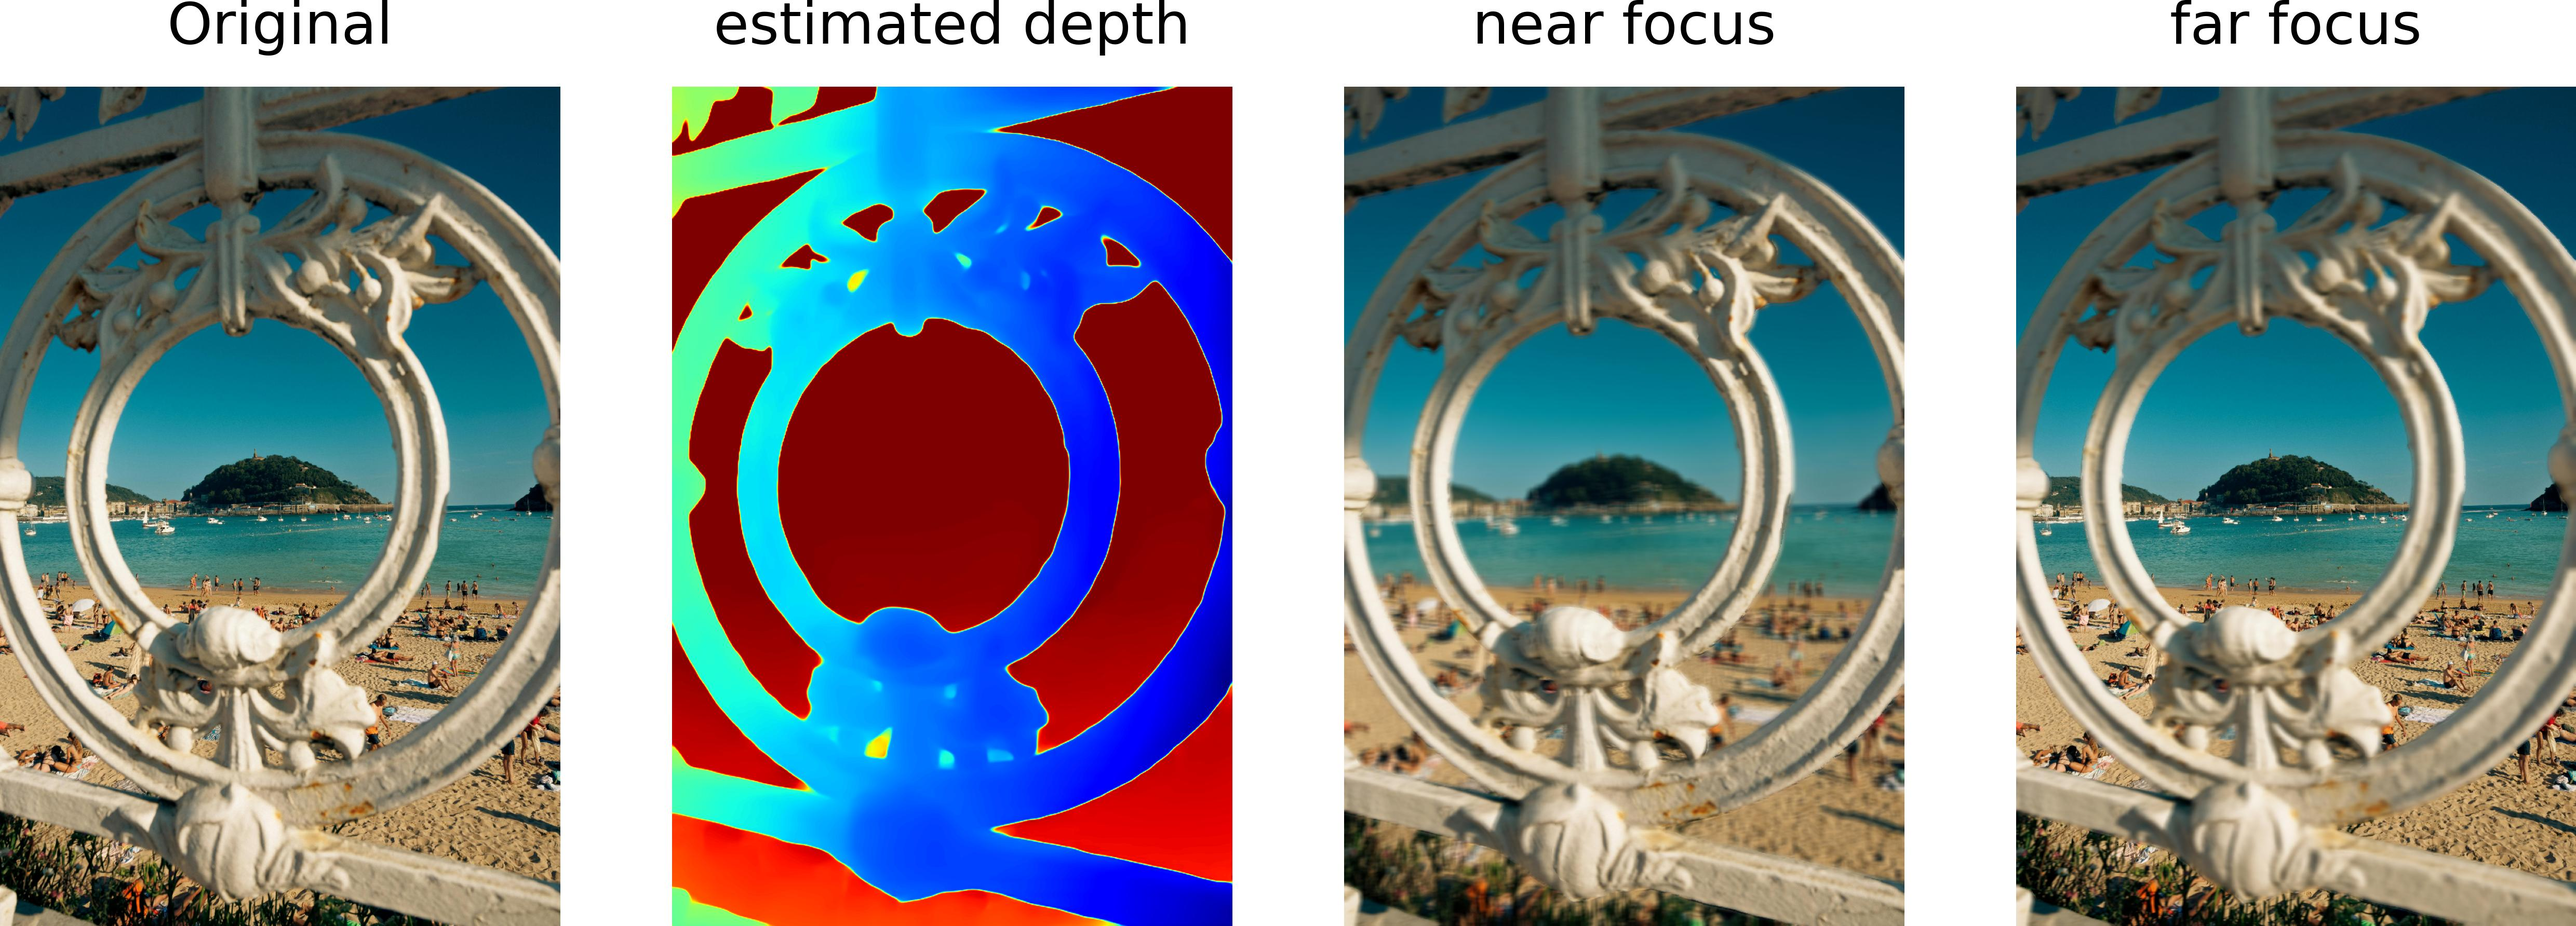
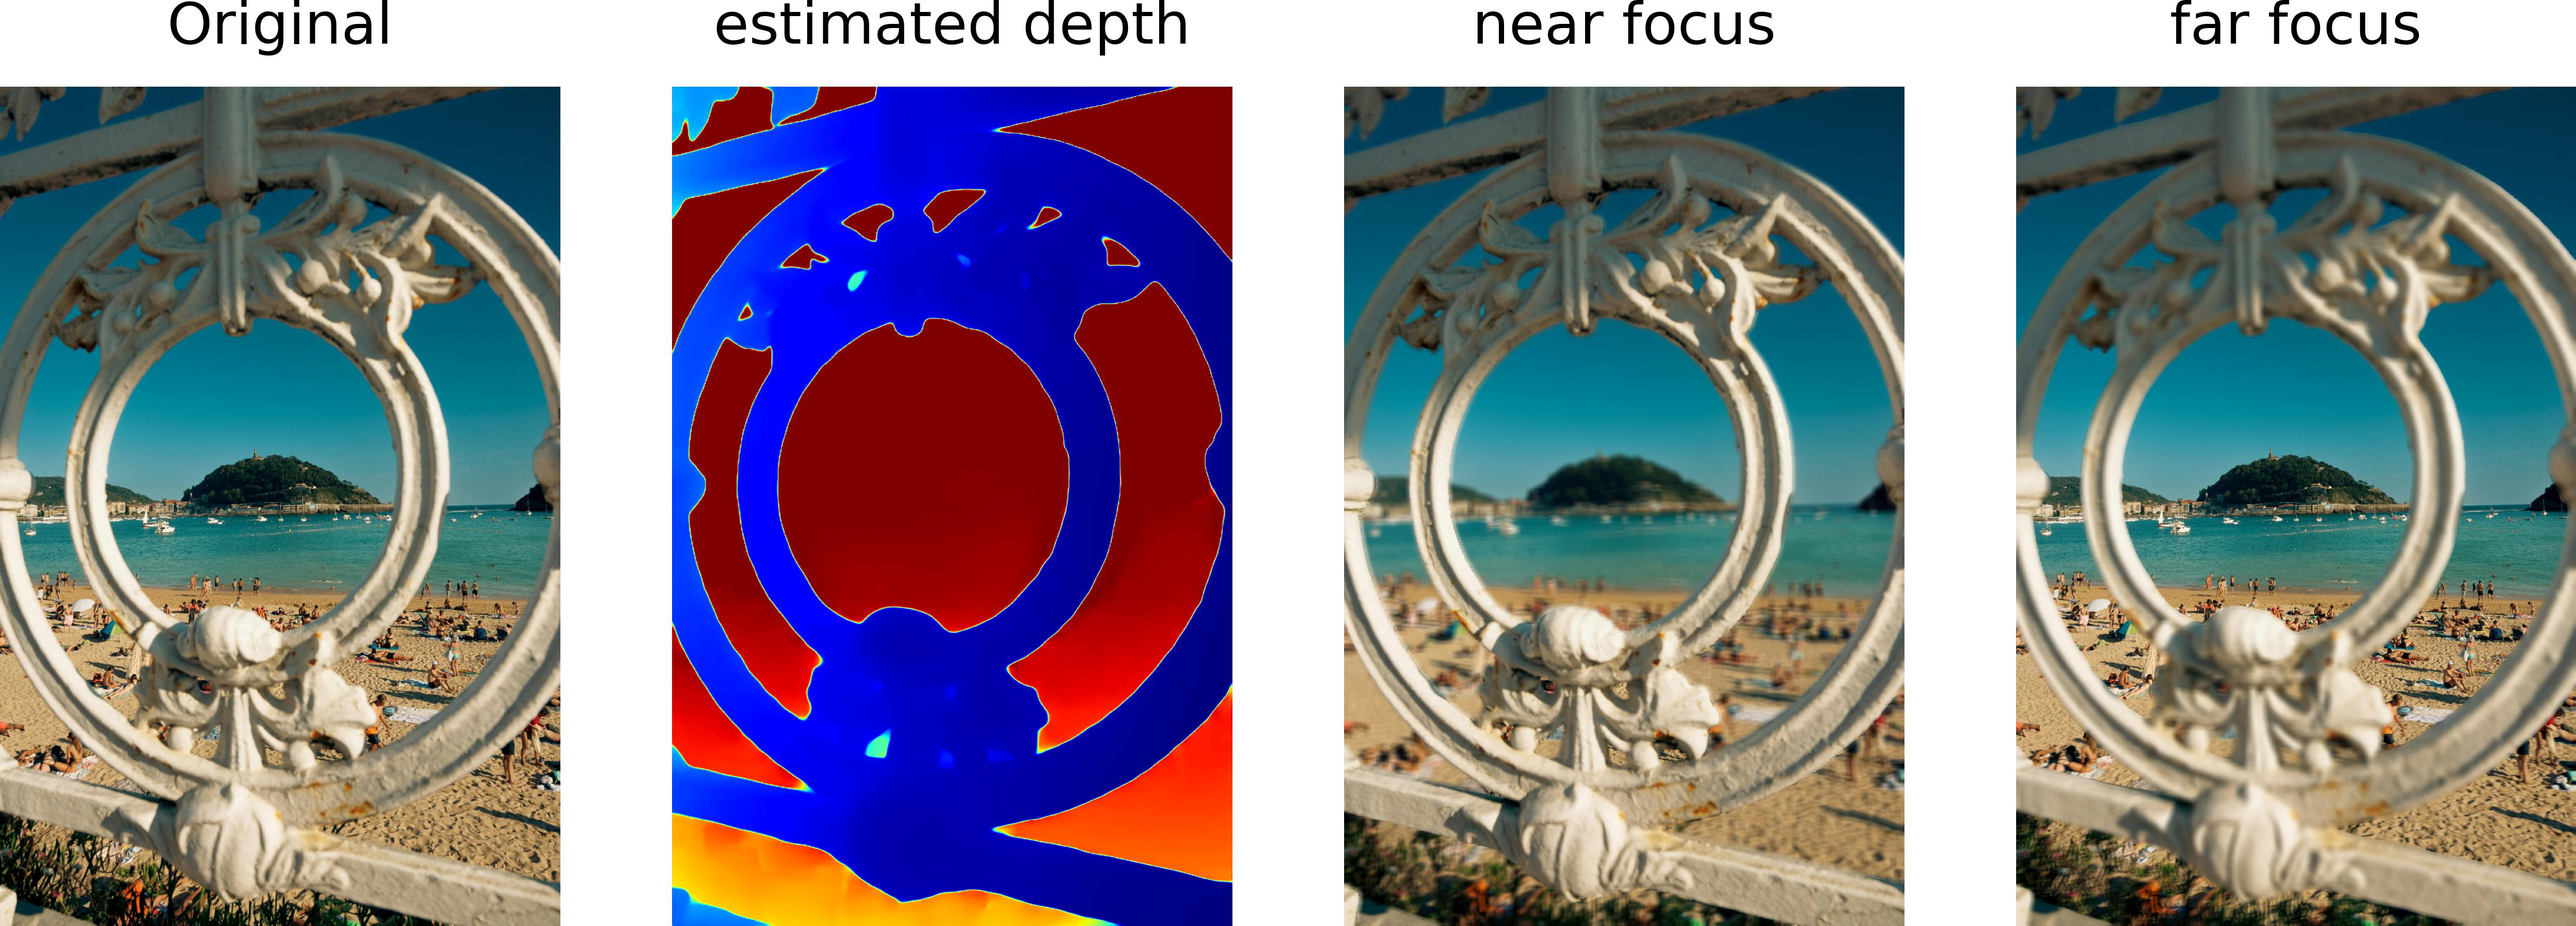
blur bug fix

diff --git a/test.py b/test.py
@@ -13,6 +13,7 @@ def bokeh_effect(image, focal_distance, kernel_size, depth=None):
         depth = (depth - depth.min()) / (depth.max() - depth.min())
         depth = 1 - depth
         print("depth estimated")
+        depth = (depth)**2
 
     bokeh_image = bokeh_effect_avg(image, depthmap=depth, focal_distance= focal_distance, kernel_size= kernel_size)
     return bokeh_image, depth
@@ -20,7 +21,7 @@ def bokeh_effect(image, focal_distance, kernel_size, depth=None):
 if __name__ == "__main__":
     image = cv2.imread("assets/images/input.jpg")
     image = cv2.resize(image, (image.shape[1]//3, image.shape[0]//3))
-    bokeh_image1,depth = bokeh_effect(image, focal_distance=0.01, kernel_size=11)
+    bokeh_image1,depth = bokeh_effect(image, focal_distance=0.05, kernel_size=11)
     bokeh_image2, _ = bokeh_effect(image, focal_distance=0.99, kernel_size=11, depth=depth)
     image = cv2.cvtColor(image, cv2.COLOR_BGR2RGB)
     

diff --git a/utils/bokeh.py b/utils/bokeh.py
@@ -14,7 +14,7 @@ def bokeh_effect_gaussian(image, depthmap, focal_distance, kernel_size = 5):
 
 def bokeh_effect_avg(image, depthmap, focal_distance, kernel_size = 15):
     weight_map = np.abs(depthmap - focal_distance)
-    kernel_matrix = (normalize_between_1_and_n(np.array(weight_map), kernel_size).astype(np.uint8))**2
+    kernel_matrix = (normalize_between_1_and_n(np.array(weight_map), kernel_size).astype(np.uint16))**2
     avg_array = create_avg_array(kernel_matrix)
     image_array = prepare_image_array(image, kernel_size=kernel_size)
     prod = np.array(image_array * avg_array[..., np.newaxis])
